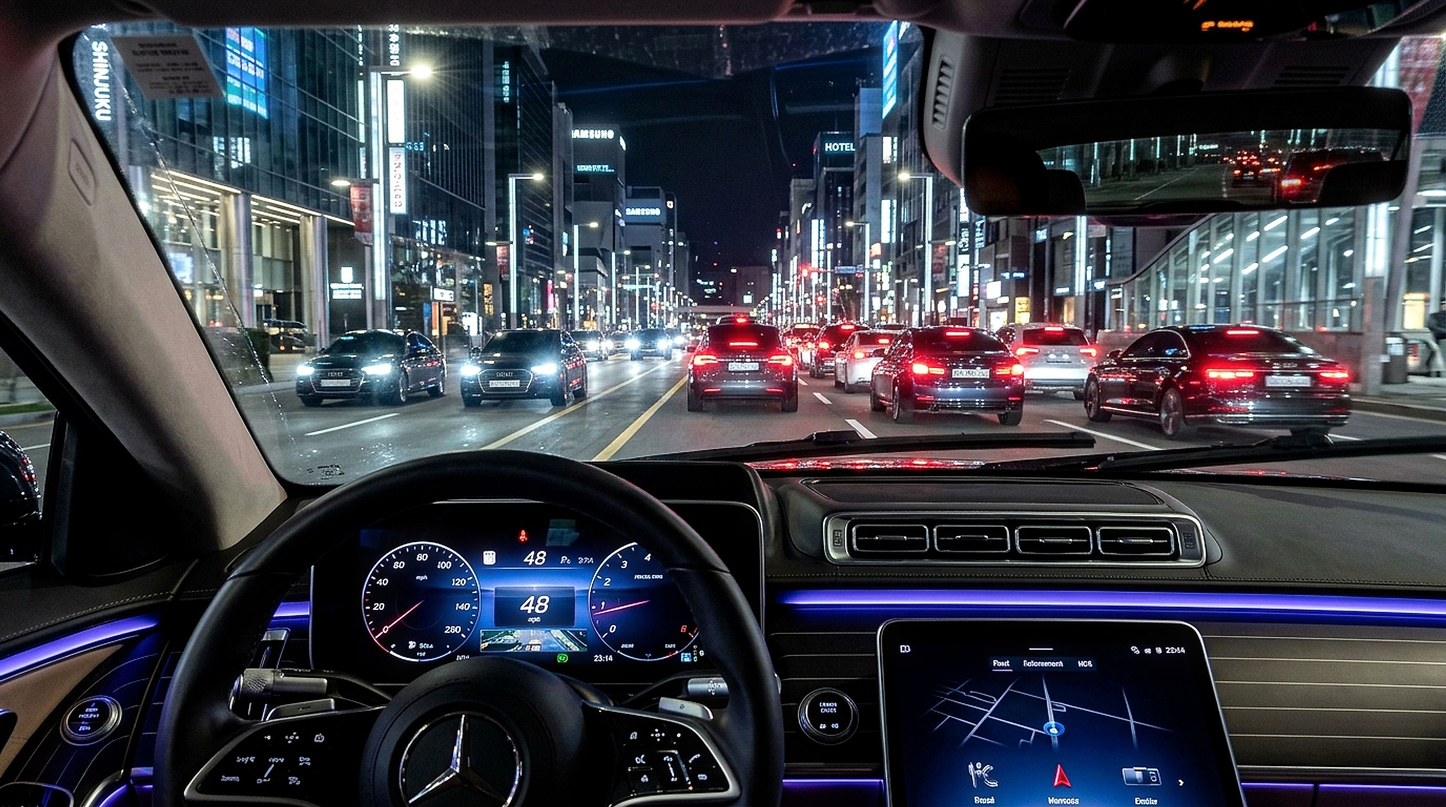
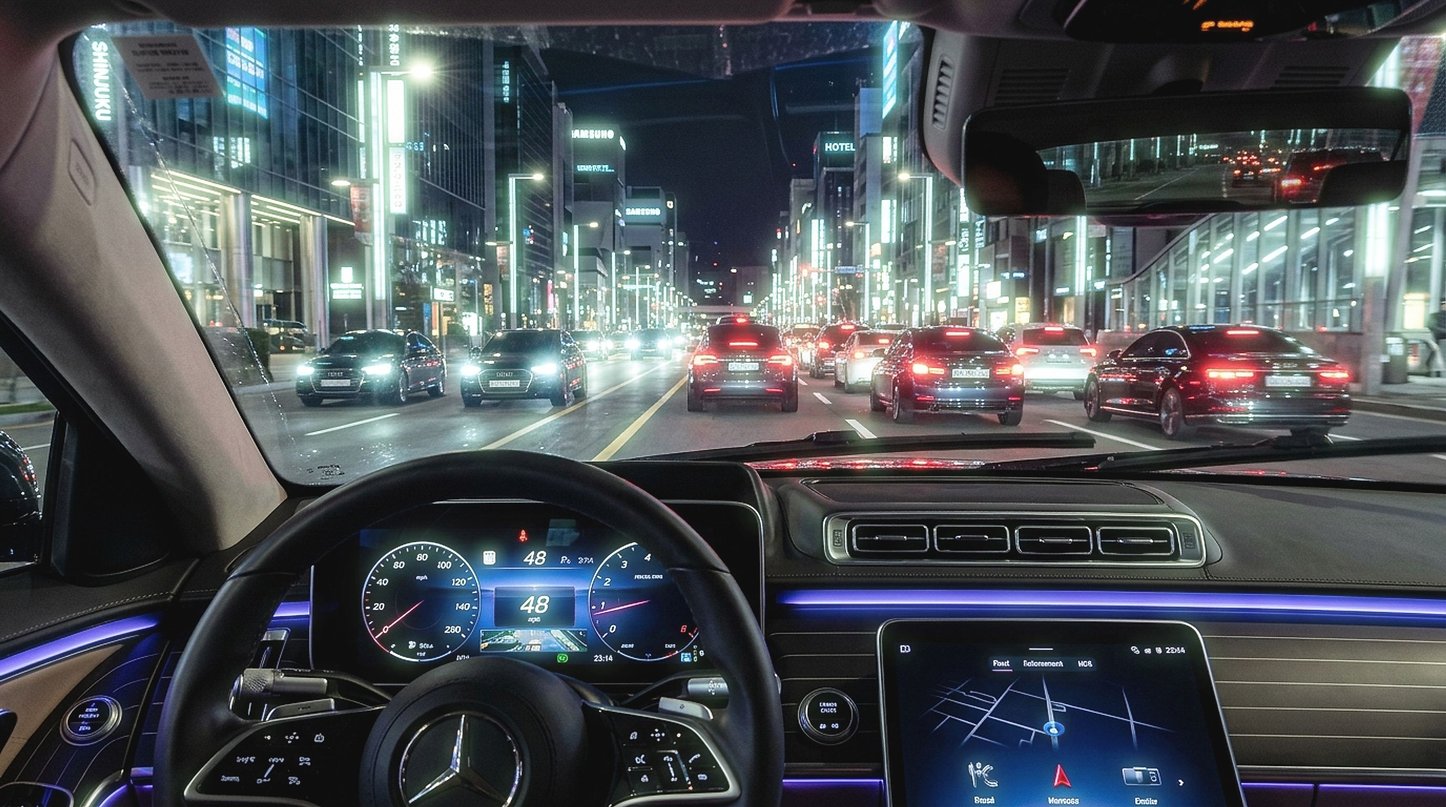
feat(optics): enhance optical contrast between AR Verde and Crizal Multicapa in night drive and digital office scenes

diff --git a/scripts/generate-mercedes-layers.js b/scripts/generate-mercedes-layers.js
@@ -32,30 +32,47 @@ async function generateMercedesLayers() {
     .threshold(195)
     .toBuffer();
 
-  // 1. CRIZAL MULTICAPA (Visión Pura, Faros Nítidos, Alto Contraste, 99.5% Transmisión)
+  // 1. CRIZAL MULTICAPA (Visión Pura Quirúrgica, Faros Nítidos Sin Nube, 99.5% Transmisión, Negros Puros)
   console.log('1/4 Creating Crizal Multicapa 2K Master...');
   await sharp(master2k)
-    .linear(1.18, -14)
-    .modulate({ brightness: 0.98, saturation: 1.08 })
-    .sharpen({ sigma: 1.3, m1: 1.0, m2: 2.4 })
+    .linear(1.25, -20)
+    .modulate({ brightness: 0.97, saturation: 1.12 })
+    .sharpen({ sigma: 1.4, m1: 1.25, m2: 2.8 })
     .jpeg({ quality: 98, chromaSubsampling: '4:4:4' })
     .toFile(path.join(outDir, 'night-crizal.jpg'));
 
-  // 2. ANTIRREFLEJO VERDE NORMAL (Estándar de Óptica: 75% reducción de halos)
+  // 2. ANTIRREFLEJO VERDE NORMAL (Estándar de Óptica: Controla destellos extremos pero conserva halo lechoso y reflejo verde residual)
   console.log('2/4 Creating AR Verde Normal 2K Master...');
-  const mildHalo = await sharp(highlights)
-    .blur(26)
-    .modulate({ brightness: 0.38 })
+  const diffuseBloom = await sharp(highlights)
+    .blur(50)
+    .modulate({ brightness: 0.85 })
+    .toBuffer();
+
+  const coreBloom = await sharp(highlights)
+    .blur(18)
+    .modulate({ brightness: 1.05 })
+    .toBuffer();
+
+  const greenResidual = await sharp(highlights)
+    .blur(22)
+    .recomb([
+      [0.06, 0.0, 0.0],
+      [0.15, 0.90, 0.10],
+      [0.05, 0.12, 0.12]
+    ])
+    .modulate({ brightness: 0.80 })
     .toBuffer();
 
   const arBase = await sharp(master2k)
-    .linear(1.06, -5)
-    .sharpen({ sigma: 0.8, m1: 0.7, m2: 1.8 })
+    .linear(0.95, 14) // Velo lumínico que eleva ligeramente las sombras (asfalto menos profundo)
+    .sharpen({ sigma: 0.75, m1: 0.6, m2: 1.6 })
     .toBuffer();
 
   await sharp(arBase)
     .composite([
-      { input: mildHalo, blend: 'screen' }
+      { input: diffuseBloom, blend: 'screen' },
+      { input: coreBloom, blend: 'screen' },
+      { input: greenResidual, blend: 'screen' }
     ])
     .jpeg({ quality: 98, chromaSubsampling: '4:4:4' })
     .toFile(path.join(outDir, 'night-ar-verde.jpg'));

diff --git a/scripts/generate-office-layers.js b/scripts/generate-office-layers.js
@@ -9,20 +9,45 @@ async function generateOfficeLayers() {
   const meta = await sharp(src).metadata();
   const { width, height } = meta;
 
-  // 1. CRIZAL MULTICAPA (Máxima nitidez quirúrgica, negros profundos, 99.5% transmisión, cero velo)
+  // 1. CRIZAL MULTICAPA (Máxima nitidez quirúrgica, negros profundos, 99.5% transmisión, cero velo, cero reflejo verde)
   console.log('1/4 office-crizal.jpg...');
   await sharp(src)
-    .linear(1.12, -10)
-    .sharpen({ sigma: 1.15, m1: 0.9, m2: 2.2 })
+    .linear(1.22, -18)
+    .modulate({ brightness: 0.98, saturation: 1.10 })
+    .sharpen({ sigma: 1.4, m1: 1.3, m2: 2.8 })
     .jpeg({ quality: 98, chromaSubsampling: '4:4:4' })
     .toFile(path.join(outDir, 'office-crizal.jpg'));
 
-  // 2. ANTIRREFLEJO VERDE (Estándar de mercado, neutraliza reflejos de lámpara y ventana)
+  // 2. ANTIRREFLEJO VERDE (Estándar de mercado: conserva reflejo residual verde esmeralda y contraste estándar con suave dispersión)
   console.log('2/4 office-ar-verde.jpg...');
-  await sharp(src)
-    .linear(1.05, -4)
-    .sharpen({ sigma: 0.75, m1: 0.6, m2: 1.8 })
-    .jpeg({ quality: 97, chromaSubsampling: '4:4:4' })
+  const lampHighlights = await sharp(src).threshold(244).toBuffer();
+
+  const greenReflection = await sharp(lampHighlights)
+    .blur(25)
+    .recomb([
+      [0.05, 0.0, 0.0],
+      [0.15, 0.90, 0.10],
+      [0.05, 0.12, 0.12]
+    ])
+    .modulate({ brightness: 0.85 })
+    .toBuffer();
+
+  const softHalo = await sharp(lampHighlights)
+    .blur(50)
+    .modulate({ brightness: 0.60 })
+    .toBuffer();
+
+  const arBase = await sharp(src)
+    .linear(0.96, 10) // Textos y sombras con contraste estándar (leve dispersión lechosa)
+    .sharpen({ sigma: 0.75, m1: 0.6, m2: 1.6 })
+    .toBuffer();
+
+  await sharp(arBase)
+    .composite([
+      { input: softHalo, blend: 'screen' },
+      { input: greenReflection, blend: 'screen' }
+    ])
+    .jpeg({ quality: 98, chromaSubsampling: '4:4:4' })
     .toFile(path.join(outDir, 'office-ar-verde.jpg'));
 
   // 3. FILTRO BLUE CUT (El alivio visual: transforma el blanco LED frío en confort cálido descansado tipo papel)

diff --git a/src/scenes/night-drive-scene.js b/src/scenes/night-drive-scene.js
@@ -17,10 +17,10 @@ export class NightDriveScene {
     // Placas fotográficas reales calibradas (Definitiva: Mercedes-Benz Clase S en Avenida)
     this.currentProposal = '2';
     this.images = {
-      'blanco': this.createImage('/scenes/night-blanco.jpg'),
-      'ar-verde': this.createImage('/scenes/night-ar-verde.jpg'),
-      'crizal': this.createImage('/scenes/night-crizal.jpg'),
-      'amarillo': this.createImage('/scenes/night-amarillo.jpg'),
+      'blanco': this.createImage('/scenes/night-blanco.jpg?v=2'),
+      'ar-verde': this.createImage('/scenes/night-ar-verde.jpg?v=2'),
+      'crizal': this.createImage('/scenes/night-crizal.jpg?v=2'),
+      'amarillo': this.createImage('/scenes/night-amarillo.jpg?v=2'),
     };
 
     // Control de transición suave (cross-fade) entre lentes

diff --git a/src/scenes/digital-office-scene.js b/src/scenes/digital-office-scene.js
@@ -17,10 +17,10 @@ export class DigitalOfficeScene {
 
     // Placas fotográficas reales calibradas 2K Master HD (2752x1536)
     this.images = {
-      'blanco': this.createImage('/scenes/office-blanco.jpg'),
-      'ar-verde': this.createImage('/scenes/office-ar-verde.jpg'),
-      'blue-cut': this.createImage('/scenes/office-blue-cut.jpg'),
-      'crizal': this.createImage('/scenes/office-crizal.jpg'),
+      'blanco': this.createImage('/scenes/office-blanco.jpg?v=2'),
+      'ar-verde': this.createImage('/scenes/office-ar-verde.jpg?v=2'),
+      'blue-cut': this.createImage('/scenes/office-blue-cut.jpg?v=2'),
+      'crizal': this.createImage('/scenes/office-crizal.jpg?v=2'),
     };
 
     // Control de transición suave (cross-fade) entre lentes
